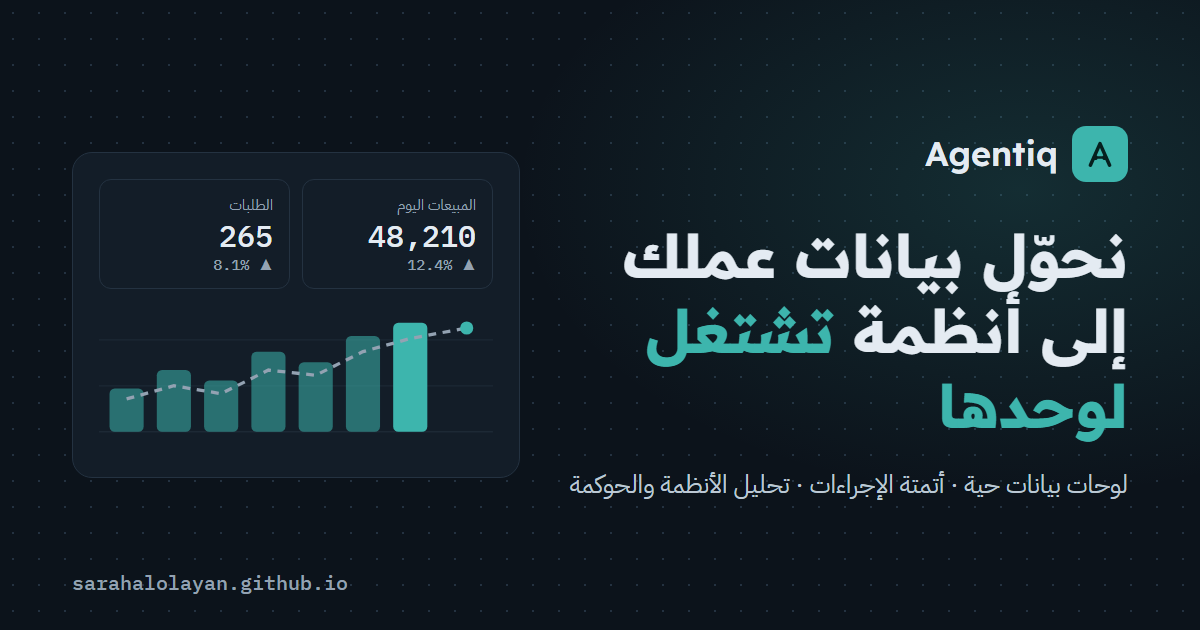
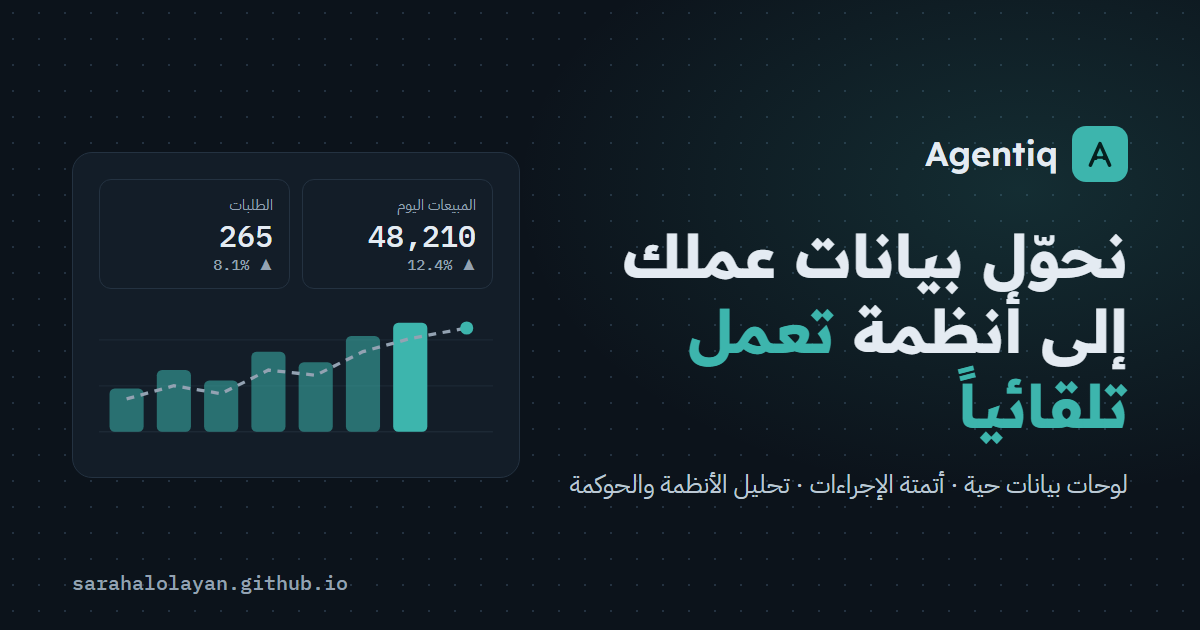
نصوص أوضح وأبسط وأدق

Changed region(s): [[0.7708, 0.573, 0.9558, 0.7238], [0.5242, 0.4825, 0.6783, 0.6032]]

diff --git a/index.html b/index.html
@@ -3,7 +3,7 @@
 <head>
 <meta charset="utf-8">
 <meta name="viewport" content="width=device-width, initial-scale=1, viewport-fit=cover">
-<meta name="description" content="Agentiq: لوحات بيانات حية، أتمتة الإجراءات، وتحليل الأنظمة والحوكمة. نحوّل بيانات عملك وإجراءاته إلى أنظمة تشتغل لوحدها.">
+<meta name="description" content="Agentiq: لوحات بيانات حية، أتمتة الإجراءات، وتحليل الأنظمة والحوكمة. نحوّل بيانات عملك إلى أنظمة تعمل تلقائياً.">
 <meta name="theme-color" content="#0C131B" media="(prefers-color-scheme: dark)">
 <meta name="theme-color" content="#EDF1F4" media="(prefers-color-scheme: light)">
 <link rel="canonical" href="https://sarahalolayan.github.io/">
@@ -13,15 +13,15 @@
 <meta property="og:locale" content="ar_SA">
 <meta property="og:url" content="https://sarahalolayan.github.io/">
 <meta property="og:title" content="Agentiq | لوحات بيانات حية وأتمتة">
-<meta property="og:description" content="Agentiq: لوحات بيانات حية، أتمتة الإجراءات، وتحليل الأنظمة والحوكمة. نحوّل بيانات عملك وإجراءاته إلى أنظمة تشتغل لوحدها.">
+<meta property="og:description" content="Agentiq: لوحات بيانات حية، أتمتة الإجراءات، وتحليل الأنظمة والحوكمة. نحوّل بيانات عملك إلى أنظمة تعمل تلقائياً.">
 <meta property="og:image" content="https://sarahalolayan.github.io/og.png">
 <meta property="og:image:width" content="1200">
 <meta property="og:image:height" content="630">
 <meta name="twitter:card" content="summary_large_image">
 <meta name="twitter:title" content="Agentiq | لوحات بيانات حية وأتمتة">
-<meta name="twitter:description" content="Agentiq: لوحات بيانات حية، أتمتة الإجراءات، وتحليل الأنظمة والحوكمة. نحوّل بيانات عملك وإجراءاته إلى أنظمة تشتغل لوحدها.">
+<meta name="twitter:description" content="Agentiq: لوحات بيانات حية، أتمتة الإجراءات، وتحليل الأنظمة والحوكمة. نحوّل بيانات عملك إلى أنظمة تعمل تلقائياً.">
 <meta name="twitter:image" content="https://sarahalolayan.github.io/og.png">
-<script type="application/ld+json">{"@context": "https://schema.org", "@type": "Organization", "name": "Agentiq", "url": "https://sarahalolayan.github.io/", "logo": "https://sarahalolayan.github.io/og.png", "email": "s.e.alolayan@gmail.com", "telephone": "+966557912466", "areaServed": "SA", "address": {"@type": "PostalAddress", "addressLocality": "الرياض", "addressCountry": "SA"}, "description": "Agentiq: لوحات بيانات حية، أتمتة الإجراءات، وتحليل الأنظمة والحوكمة. نحوّل بيانات عملك وإجراءاته إلى أنظمة تشتغل لوحدها."}</script>
+<script type="application/ld+json">{"@context": "https://schema.org", "@type": "Organization", "name": "Agentiq", "url": "https://sarahalolayan.github.io/", "logo": "https://sarahalolayan.github.io/og.png", "email": "s.e.alolayan@gmail.com", "telephone": "+966557912466", "areaServed": "SA", "address": {"@type": "PostalAddress", "addressLocality": "الرياض", "addressCountry": "SA"}, "description": "Agentiq: لوحات بيانات حية، أتمتة الإجراءات، وتحليل الأنظمة والحوكمة. نحوّل بيانات عملك إلى أنظمة تعمل تلقائياً."}</script>
 <title>Agentiq</title>
 <link rel="preconnect" href="https://fonts.googleapis.com">
 <link rel="preconnect" href="https://fonts.gstatic.com" crossorigin>
@@ -475,15 +475,15 @@ main:focus{outline:none}
   <header class="hero">
     <div class="hero-text">
       <span class="eyebrow">نظم المعلومات · لوحات البيانات · الأتمتة</span>
-      <h1><span class="sr-only">نحوّل بيانات عملك وإجراءاته إلى أنظمة تشتغل لوحدها، تنبّهك وقت الخلل، وتكتب تقاريرها بنفسها.</span><span aria-hidden="true">نحوّل بيانات عملك وإجراءاته إلى أنظمة <em id="rot">تشتغل لوحدها</em><span class="caret"></span></span></h1>
-      <p>Agentiq تبني لوحات بيانات حية وأتمتة للمهام المتكررة، على أساس خبرة في تحليل الأنظمة وحوكمة نظم المعلومات وإدارة المشاريع. منهجيتنا واضحة: نفهم الاحتياج أولاً، ثم نبني نظاماً يستخدمه فريقك فعلاً.</p>
+      <h1><span class="sr-only">نحوّل بيانات عملك إلى أنظمة تعمل تلقائياً، تنبّهك عند الخلل، وتكتب تقاريرها بنفسها.</span><span aria-hidden="true">نحوّل بيانات عملك إلى أنظمة <em id="rot">تعمل تلقائياً</em><span class="caret"></span></span></h1>
+      <p>نبني لوحات بيانات حية ونؤتمت المهام المتكررة، بخبرة في تحليل الأنظمة وحوكمة نظم المعلومات.</p>
       <div class="cta-row">
-        <a class="btn primary" href="#lab">جرّب أعمالنا مباشرة</a>
+        <a class="btn primary" href="#lab">جرّب أعمالنا</a>
         <a class="btn" href="#contact">تواصل معنا</a>
       </div>
     </div>
-    <aside class="opslog" aria-label="مثال حي على سجل عمليات مؤتمت">
-      <div class="opslog-head"><span class="live"><span class="dot"></span>سجل الأتمتة · مثال حي</span><span class="num" id="ops-clock">--:--</span></div>
+    <aside class="opslog" aria-label="مثال توضيحي لسجل عمليات مؤتمت">
+      <div class="opslog-head"><span class="live"><span class="dot"></span>سجل الأتمتة · مثال توضيحي</span><span class="num" id="ops-clock">--:--</span></div>
       <div class="opslog-kpis">
         <div><span>مهام نُفّذت اليوم</span><b id="ops-runs">0</b></div>
         <div><span>دقائق تم توفيرها</span><b id="ops-saved">0</b></div>
@@ -495,17 +495,17 @@ main:focus{outline:none}
   </div>
 
   <div class="facts-strip">
-    <div><b class="num">24/7</b><span>مراقبة وتنبيهات آلية لبيانات عملك</span></div>
-    <div><b class="num" data-count="12" data-prefix="+">+12</b><span>نظاماً ومنصة نربط معها مباشرة</span></div>
-    <div><b class="num" data-count="3">3</b><span>خدمات متكاملة: لوحات بيانات، أتمتة، حوكمة</span></div>
-    <div><b class="en" lang="en">ISTQB</b><span>ضمان جودة وفق معايير اختبار دولية</span></div>
+    <div><b class="num">24/7</b><span>مراقبة وتنبيهات تلقائية</span></div>
+    <div><b class="num" data-count="12" data-prefix="+">+12</b><span>أداة ومنصة نربط معها</span></div>
+    <div><b class="num" data-count="3">3</b><span>خدمات: لوحات بيانات، أتمتة، حوكمة</span></div>
+    <div><b class="en" lang="en">ISTQB</b><span>اختبار وفق المعايير الدولية</span></div>
   </div>
 
   <!-- SERVICES -->
   <section class="block" id="services">
     <div class="block-head">
       <h2>الخدمات</h2>
-      <p>ثلاث خدمات مترابطة: نرتّب الإجراءات، نؤتمت المتكرر منها، ونعرض نتائجها في لوحة واحدة.</p>
+      <p>نرتّب الإجراءات، ونؤتمت المتكرر منها، ونعرض النتائج في لوحة واحدة.</p>
     </div>
     <div class="services">
       <article class="service spot">
@@ -522,8 +522,8 @@ main:focus{outline:none}
           <rect class="chip" x="200" y="74" width="46" height="18" rx="9"/><text class="chipt" x="223" y="86" text-anchor="middle">▲ 12%</text>
         </svg>
         <h3><svg width="24" height="24" viewBox="0 0 24 24" fill="none" stroke="currentColor" stroke-width="1.8" stroke-linecap="round"><path d="M3 17l6-6 4 4 8-8"/><path d="M15 7h6v6"/></svg>لوحات بيانات حية</h3>
-        <p>لوحة تحكم تتحدّث تلقائياً من مصادر بياناتك، وتعرض الأرقام المهمة مع اتجاهها.</p>
-        <ul><li>تحديث تلقائي من مصادرك</li><li>مؤشرات KPI مع نسبة التغيّر والأهداف</li><li>تنبيهات فورية عند أي خلل</li><li>ملخص يومي مكتوب</li></ul>
+        <p>لوحة تتحدّث تلقائياً وتعرض أرقامك المهمة.</p>
+        <ul><li>تحديث تلقائي من مصادرك</li><li>مؤشرات أداء مع نسبة التغيّر</li><li>تنبيهات فورية عند أي خلل</li><li>ملخص يومي مكتوب</li></ul>
         <a class="try" href="#lab" data-tab="store">جرّب لوحة حية ←</a>
       </article>
       <article class="service spot">
@@ -541,8 +541,8 @@ main:focus{outline:none}
           <text x="231" y="100" text-anchor="middle">المُشغّل</text><text x="29" y="18" text-anchor="middle">إرسال</text>
         </svg>
         <h3><svg width="24" height="24" viewBox="0 0 24 24" fill="none" stroke="currentColor" stroke-width="1.8" stroke-linecap="round"><circle cx="6" cy="6" r="2.5"/><circle cx="18" cy="18" r="2.5"/><path d="M8.5 6H14a4 4 0 0 1 4 4v5.5"/></svg>أتمتة الإجراءات</h3>
-        <p>أي مهمة تتكرر يومياً بنفس الخطوات تقدر تشتغل لوحدها: من نسخ البيانات إلى إرسال التقارير.</p>
-        <ul><li>ربط الأنظمة ببعض (متجر، شيت، CRM)</li><li>تقارير مجدولة تصل واتساب أو بريد</li><li>مسارات موافقات بدل الورق والرسائل</li><li>تنبيهات بشروط تحددها أنت</li></ul>
+        <p>المهام المتكررة تُنفَّذ تلقائياً بدل العمل اليدوي.</p>
+        <ul><li>ربط الأنظمة ببعضها</li><li>تقارير مجدولة عبر واتساب أو البريد</li><li>مسارات موافقات إلكترونية</li><li>تنبيهات بشروط تحددها</li></ul>
         <a class="try" href="#lab" data-tab="auto">شغّل محاكي الأتمتة ←</a>
       </article>
       <article class="service spot">
@@ -558,9 +558,9 @@ main:focus{outline:none}
           <circle class="pk" r="4" opacity=".6"><animateMotion dur="4s" begin="2s" repeatCount="indefinite" path="M240 50 H184 H126 H98 V72 H62 H30 V50 H16"/></circle>
         </svg>
         <h3><svg width="24" height="24" viewBox="0 0 24 24" fill="none" stroke="currentColor" stroke-width="1.8" stroke-linecap="round"><rect x="3" y="4" width="7" height="6" rx="1.5"/><rect x="14" y="14" width="7" height="6" rx="1.5"/><path d="M6.5 10v4a3 3 0 0 0 3 3H14"/></svg>تحليل الأنظمة والحوكمة</h3>
-        <p>قبل أي أداة: نفهم الإجراء الحالي، نحدد الفجوات، ونكتب السياسة التي يمشي عليها الفريق.</p>
+        <p>نفهم الإجراء الحالي، ونحدد الفجوات، ونكتب السياسات.</p>
         <ul><li>جمع المتطلبات وتوثيقها</li><li>رسم الإجراءات بـ BPMN</li><li>سياسات الوصول والتعامل مع البيانات</li><li>تقارير امتثال دورية</li></ul>
-        <a class="try" href="#work">شوف أعمالنا ←</a>
+        <a class="try" href="#work">أعمالنا ←</a>
       </article>
     </div>
     <div style="display:grid;gap:10px"><span class="muted" style="font-size:14px">نربط مع:</span><ul class="sr-only"><li>Google Sheets</li><li>Excel</li><li>سلة</li><li>زد</li><li>Foodics</li><li>واتساب</li><li>البريد الإلكتروني</li><li>قواعد بيانات SQL</li><li>Google Drive</li><li>CRM</li><li>نماذج إلكترونية</li><li>أي نظام فيه API</li></ul><div class="marquee" aria-hidden="true"><div class="marquee-track" aria-hidden="true"><span>Google Sheets</span><span>Excel</span><span>سلة</span><span>زد</span><span>Foodics</span><span>واتساب</span><span>البريد الإلكتروني</span><span>قواعد بيانات SQL</span><span>Google Drive</span><span>CRM</span><span>نماذج إلكترونية</span><span>أي نظام فيه API</span><span>Google Sheets</span><span>Excel</span><span>سلة</span><span>زد</span><span>Foodics</span><span>واتساب</span><span>البريد الإلكتروني</span><span>قواعد بيانات SQL</span><span>Google Drive</span><span>CRM</span><span>نماذج إلكترونية</span><span>أي نظام فيه API</span></div></div></div>
@@ -570,13 +570,13 @@ main:focus{outline:none}
   <section class="block" id="process">
     <div class="block-head">
       <h2>طريقة العمل</h2>
-      <p>أربع مراحل واضحة من أول جلسة إلى التشغيل، ولكل مرحلة مخرج تستلمه وتراجعه قبل ما ننتقل للي بعدها.</p>
+      <p>أربع مراحل، ولكل مرحلة مخرج واضح تراجعه قبل الانتقال للتالية.</p>
     </div>
     <ol class="steps">
-      <li class="step"><span class="n">01</span><h3>جلسة فهم</h3><p>نفهم نشاطك، والأرقام اللي تحرّكه، والقرارات اللي تحتاج بيانات عشان تنأخذ.</p><span class="out">المخرج: <b>خريطة الاحتياج والمؤشرات المقترحة</b></span></li>
-      <li class="step"><span class="n">02</span><h3>تصميم الحل</h3><p>نرسم الإجراء الحالي والمقترح، ونحدد مصادر البيانات وقواعد التنبيه وشكل الملخص.</p><span class="out">المخرج: <b>تصميم اللوحة ومسار الأتمتة</b></span></li>
-      <li class="step"><span class="n">03</span><h3>البناء والاختبار</h3><p>نربط مصادرك ونبني اللوحة والمسارات، ونختبر كل مسار على بياناتك الفعلية قبل التشغيل.</p><span class="out">المخرج: <b>نظام مختبر وجاهز للإطلاق</b></span></li>
-      <li class="step"><span class="n">04</span><h3>التشغيل والدعم</h3><p>نطلق النظام مع توثيق وتدريب لفريقك، ونتابع التحسينات بعد الإطلاق.</p><span class="out">المخرج: <b>توثيق وتدريب ودعم مستمر</b></span></li>
+      <li class="step"><span class="n">01</span><h3>جلسة فهم</h3><p>نفهم نشاطك والأرقام المهمة لك.</p><span class="out">المخرج: <b>الاحتياج والمؤشرات المقترحة</b></span></li>
+      <li class="step"><span class="n">02</span><h3>تصميم الحل</h3><p>نحدد مصادر البيانات والتنبيهات وشكل اللوحة.</p><span class="out">المخرج: <b>تصميم اللوحة ومسار الأتمتة</b></span></li>
+      <li class="step"><span class="n">03</span><h3>البناء والاختبار</h3><p>نبني النظام ونختبره على بياناتك قبل التشغيل.</p><span class="out">المخرج: <b>نظام جاهز للإطلاق</b></span></li>
+      <li class="step"><span class="n">04</span><h3>التشغيل والدعم</h3><p>نطلق النظام وندرّب فريقك ونتابع بعد الإطلاق.</p><span class="out">المخرج: <b>توثيق وتدريب ودعم</b></span></li>
     </ol>
   </section>
 
@@ -584,7 +584,7 @@ main:focus{outline:none}
   <section class="block" id="lab">
     <div class="block-head">
       <h2>جرّب بنفسك</h2>
-      <p>ثلاث أدوات تعمل هنا مباشرة: لوحة متجر حية، محاكي لسير عمل مؤتمت، وحاسبة تقدّر الوقت الذي توفره الأتمتة لفريقك.</p>
+      <p>ثلاثة أمثلة تفاعلية تعمل ببيانات تجريبية.</p>
     </div>
     <div class="lab">
       <div class="tabs" role="tablist" aria-label="أدوات تفاعلية">
@@ -619,7 +619,7 @@ main:focus{outline:none}
           <div>
             <h4>الملخص اليومي</h4>
             <p id="summary-text"></p>
-            <div class="sum-foot"><button class="btn sm" id="copy" type="button">نسخ الملخص</button><span id="copy-msg">يُرسل تلقائياً كل ليلة</span></div>
+            <div class="sum-foot"><button class="btn sm" id="copy" type="button">نسخ الملخص</button><span id="copy-msg">يُرسل تلقائياً نهاية كل يوم</span></div>
           </div>
           <ul class="dl" id="facts"></ul>
         </div>
@@ -653,7 +653,7 @@ main:focus{outline:none}
           <div style="display:grid;gap:18px">
             <div class="field"><label for="r-tasks">كم مرة تتكرر المهمة أسبوعياً؟ <output id="o-tasks" for="r-tasks"></output></label><input type="range" id="r-tasks" min="1" max="100" value="20"></div>
             <div class="field"><label for="r-min">كم دقيقة تأخذ كل مرة؟ <output id="o-min" for="r-min"></output></label><input type="range" id="r-min" min="2" max="120" value="15"></div>
-            <div class="field"><label for="r-staff">كم موظف يقوم بها؟ <output id="o-staff" for="r-staff"></output></label><input type="range" id="r-staff" min="1" max="20" value="3"></div>
+            <div class="field"><label for="r-staff">كم موظفاً يقوم بها؟ <output id="o-staff" for="r-staff"></output></label><input type="range" id="r-staff" min="1" max="20" value="3"></div>
             <div class="field"><label for="r-cost">تكلفة ساعة الموظف (ر.س) <output id="o-cost" for="r-cost"></output></label><input type="range" id="r-cost" min="20" max="300" step="5" value="60"></div>
           </div>
           <div class="roi-out" aria-live="polite">
@@ -664,7 +664,7 @@ main:focus{outline:none}
             <div class="cell"><span>توفير سنوي تقديري</span><b id="x-money" style="color:var(--accent);font-size:32px">0</b></div>
             <div class="cmp-row"><span>الوقت الشهري الحالي: <b id="x-now" class="num"></b> ساعة</span><div class="track"><i style="background:var(--ghost);width:100%"></i></div></div>
             <div class="cmp-row"><span>بعد الأتمتة: <b id="x-after" class="num"></b> ساعة</span><div class="track"><i style="background:var(--accent);width:20%"></i></div></div>
-            <p class="roi-note">تقدير مبسّط يفترض أن الأتمتة توفّر 80% من الوقت اليدوي، ويبقى 20% للمراجعة والاستثناءات. الرقم الفعلي يتحدد بعد دراسة الإجراء.</p>
+            <p class="roi-note">تقدير مبسّط يفترض توفير 80% من الوقت اليدوي. الرقم الفعلي يتحدد بعد دراسة الإجراء.</p>
             <a class="btn primary sm" href="#contact" style="justify-self:start">ناقش معنا مهمتك</a>
           </div>
         </div>
@@ -676,7 +676,7 @@ main:focus{outline:none}
   <section class="block" id="work">
     <div class="block-head">
       <h2>أعمالنا</h2>
-      <p>مشاريع منشورة تقدر تفتحها وتجربها، وأعمال من خبرة الفريق في تحليل الأنظمة والحوكمة.</p>
+      <p>مشاريع منشورة يمكنك تجربتها، وأمثلة من خبرتنا السابقة.</p>
     </div>
     <div class="filters" id="work-filters" role="group" aria-label="تصفية الأعمال">
       <button class="chip" type="button" data-f="all" aria-pressed="true">الكل</button>
@@ -689,48 +689,48 @@ main:focus{outline:none}
         <div style="display:grid;gap:12px">
           <span class="cat">لوحة بيانات · مشروع منشور</span>
           <h3>نبض النادي</h3>
-          <p>لوحة تحكم حية لنادي رياضي مبنية على 973 جلسة تمرين حقيقية. فيها أهداف يومية، ومناطق شدة النبض، وفلاتر تطبّق على اللوحة كاملة، وتنبيهات بزر متابعة، وملخص يومي يُحفظ تلقائياً.</p>
-          <div class="tags"><span>تحديث تلقائي</span><span>6 مؤشرات KPI</span><span>تنبيهات</span><span>ملخص يومي</span><span>رفع CSV</span></div>
+          <p>لوحة حية لنادي رياضي مبنية على 973 جلسة تمرين، مع أهداف يومية وتنبيهات وملخص يومي.</p>
+          <div class="tags"><span>تحديث تلقائي</span><span>6 مؤشرات أداء</span><span>تنبيهات</span><span>ملخص يومي</span><span>رفع CSV</span></div>
           <div class="links-row"><a href="https://sarahalolayan.github.io/nabd-alnadi/" target="_blank" rel="noopener">افتح اللوحة ↗</a></div>
         </div>
         <div class="mini" aria-hidden="true">
           <div class="mini-kpis"><div><span>الجلسات</span><b id="m-n">59</b></div><div><span>السعرات</span><b id="m-c">53,259</b></div><div><span>الهدف</span><b>128</b></div></div>
           <svg id="m-chart" viewBox="0 0 300 60" preserveAspectRatio="none"></svg>
-          <span class="kpi-sub">معاينة مصغّرة تتحدّث</span>
+          <span class="kpi-sub">معاينة مصغّرة</span>
         </div>
       </article>
       <article class="card spot" data-cat="dash">
         <span class="cat">لوحة بيانات · عرض حي</span>
         <h3>لوحة عمليات متجر إلكتروني</h3>
-        <p>مبيعات بالساعة مقابل أمس، أربع مؤشرات مع نسب التغيّر، تنبيهات مخزون وتحويل، وتوقع لمبيعات نهاية اليوم.</p>
+        <p>مبيعات بالساعة، ومؤشرات مع نسب التغيّر، وتنبيهات، وتوقع لنهاية اليوم.</p>
         <div class="tags"><span>مبيعات</span><span>معدل التحويل</span><span>توقع</span></div>
-        <div class="links-row"><a href="#lab" data-tab="store">جرّبها هنا ←</a></div>
+        <div class="links-row"><a href="#lab" data-tab="store">جرّبها ←</a></div>
       </article>
       <article class="card spot" data-cat="auto">
         <span class="cat">أتمتة · محاكي تفاعلي</span>
-        <h3>ثلاث مسارات عمل مؤتمتة</h3>
-        <p>طلب متجر يحدّث الشيت وينبّه المدير، تقرير يومي يُكتب ويُرسل لوحده، وطلب إجازة يمر بالموافقة ويُبلغ الموظف.</p>
+        <h3>ثلاثة مسارات عمل مؤتمتة</h3>
+        <p>طلب متجر، وتقرير يومي، وطلب إجازة بموافقة المدير.</p>
         <div class="tags"><span>Webhook</span><span>شروط</span><span>تنبيهات</span><span>موافقات</span></div>
-        <div class="links-row"><a href="#lab" data-tab="auto">شغّلها هنا ←</a></div>
+        <div class="links-row"><a href="#lab" data-tab="auto">شغّلها ←</a></div>
       </article>
       <article class="card spot" data-cat="gov">
-        <span class="cat">حوكمة نظم المعلومات · مجموعة المسواك</span>
+        <span class="cat">حوكمة نظم المعلومات · خبرة سابقة</span>
         <h3>سياسات نظم المعلومات والامتثال</h3>
-        <p>كتابة وتحديث سياسات الوصول للأنظمة والتعامل مع البيانات وضوابط الاستخدام، مع متابعة التزام الإدارات وتقارير امتثال دورية بالإجراءات التصحيحية.</p>
+        <p>سياسات الوصول للأنظمة والتعامل مع البيانات، مع متابعة الالتزام وتقارير امتثال دورية.</p>
         <div class="tags"><span>سياسات</span><span>امتثال</span><span>تقارير</span></div>
       </article>
       <article class="card spot" data-cat="gov">
-        <span class="cat">تحليل أنظمة · EinAI</span>
+        <span class="cat">تحليل الأنظمة · خبرة سابقة</span>
         <h3>متطلبات وخرائط إجراءات BPMN</h3>
-        <p>ورش عمل لجمع المتطلبات الوظيفية وغير الوظيفية، ورسم الإجراءات الحالية والمقترحة لكشف الفجوات ونقاط التكامل، ومتابعة التسليم في Jira.</p>
+        <p>جمع المتطلبات ورسم الإجراءات لكشف الفجوات، ومتابعة التسليم في Jira.</p>
         <div class="tags"><span>BPMN</span><span>متطلبات</span><span>Jira</span></div>
       </article>
       <article class="card spot" data-cat="auto gov">
-        <span class="cat">أتمتة · من خبرة الفريق</span>
-        <h3>تقارير الامتثال والتقدم</h3>
-        <p>تقارير دورية كانت تُجمع يدوياً من الاجتماعات والمتابعات. اليوم نبنيها كمسار مؤتمت يجمع البيانات ويكتب الملخص ويرسله في موعده.</p>
+        <span class="cat">أتمتة · مثال تطبيقي</span>
+        <h3>تقارير دورية مؤتمتة</h3>
+        <p>تقرير يُجمع ويُكتب ويُرسل في موعده بدل إعداده يدوياً.</p>
         <div class="tags"><span>تقارير مجدولة</span><span>ملخصات</span></div>
-        <div class="links-row"><a href="#lab" data-tab="auto" data-scenario="daily">شوف المثال ←</a></div>
+        <div class="links-row"><a href="#lab" data-tab="auto" data-scenario="daily">شاهد المثال ←</a></div>
       </article>
     </div>
   </section>
@@ -739,20 +739,20 @@ main:focus{outline:none}
   <section class="block" id="faq">
     <div class="block-head"><h2>أسئلة شائعة</h2></div>
     <div class="faqs">
-      <details class="faq"><summary>هل أحتاج فريق تقني عندي؟</summary><p>لا. نتولى الربط والبناء والاختبار، وفريقك يستخدم اللوحة ويستقبل التنبيهات والتقارير فقط.</p></details>
-      <details class="faq"><summary>من وين تجي البيانات؟</summary><p>من الأنظمة اللي تستخدمها اليوم: ملفات Excel وGoogle Sheets، متجرك في سلة أو زد، نظام نقاط البيع، قاعدة بيانات، أو أي نظام فيه API.</p></details>
-      <details class="faq"><summary>كيف تتعاملون مع أمان البيانات؟</summary><p>نحدد صلاحيات الوصول لكل مستخدم، ونطبق سياسات واضحة للتعامل مع البيانات من خبرتنا في حوكمة نظم المعلومات. وتبقى البيانات والحسابات ملكك أنت.</p></details>
-      <details class="faq"><summary>كم يستغرق المشروع؟</summary><p>يعتمد على عدد مصادر البيانات وتعقيد الإجراء. نحدد المدة والمخرجات بدقة بعد جلسة الفهم، قبل ما نبدأ أي عمل.</p></details>
-      <details class="faq"><summary>وش يصير بعد التسليم؟</summary><p>نسلّمك توثيقاً كاملاً وندرّب فريقك، ونبقى متاحين للتعديلات وإضافة مؤشرات أو مسارات جديدة مع نمو عملك.</p></details>
-      <details class="faq"><summary>أقدر أبدأ بشيء صغير؟</summary><p>أكيد. ننصح بالبدء بلوحة واحدة أو أتمتة إجراء واحد يوفّر وقتاً واضحاً، وبعدها نتوسع خطوة خطوة.</p></details>
+      <details class="faq"><summary>هل أحتاج فريقاً تقنياً؟</summary><p>لا. نتولى البناء والربط، وفريقك يستخدم النتيجة فقط.</p></details>
+      <details class="faq"><summary>من أين تأتي البيانات؟</summary><p>من الأنظمة التي تستخدمها حالياً، مثل Excel أو متجرك الإلكتروني أو قاعدة بياناتك.</p></details>
+      <details class="faq"><summary>كيف تحمون البيانات؟</summary><p>نحدد صلاحيات الوصول لكل مستخدم، وتبقى البيانات ملكك.</p></details>
+      <details class="faq"><summary>كم يستغرق المشروع؟</summary><p>حسب حجمه. نحدد المدة بعد جلسة الفهم وقبل بدء العمل.</p></details>
+      <details class="faq"><summary>ماذا بعد التسليم؟</summary><p>نسلّم التوثيق وندرّب فريقك، ونبقى متاحين للتعديلات.</p></details>
+      <details class="faq"><summary>هل يمكن البدء بمشروع صغير؟</summary><p>نعم. يمكنك البدء بلوحة واحدة أو إجراء واحد، ثم التوسع.</p></details>
     </div>
   </section>
 
   <!-- CONTACT -->
   <section class="contact" id="contact">
     <div>
-      <h2>عندك مهمة تتكرر كل يوم، أو أرقام تبي تشوفها بوضوح؟</h2>
-      <p>عبّ التفاصيل باختصار، وتنفتح رسالتك جاهزة في واتساب أو البريد. نرجع لك بتصور أولي للحل وخطوات تنفيذه.</p>
+      <h2>لنبدأ مشروعك</h2>
+      <p>اكتب التفاصيل باختصار، وستُفتح رسالتك جاهزة في واتساب أو البريد.</p>
       <form class="brief" id="brief" novalidate>
         <div class="brief-row">
           <div class="bf"><label for="b-name">الاسم أو الجهة</label><input id="b-name" autocomplete="organization" placeholder="مثال: متجر نخلة"></div>
@@ -762,12 +762,12 @@ main:focus{outline:none}
         <fieldset class="bf"><legend>الخدمة المطلوبة</legend>
           <div class="svc-pick" id="b-svc"><button type="button" aria-pressed="true">لوحة بيانات</button><button type="button" aria-pressed="false">أتمتة</button><button type="button" aria-pressed="false">تحليل وحوكمة</button></div>
         </fieldset>
-        <div class="bf"><label for="b-msg">وش المهمة أو الأرقام اللي تبي تتابعها؟</label><textarea id="b-msg" rows="3" aria-required="true" aria-describedby="b-note" placeholder="مثال: نجمع مبيعات الفروع يدوياً كل يوم من ثلاث ملفات Excel"></textarea></div>
+        <div class="bf"><label for="b-msg">ما المهمة أو الأرقام التي تريد متابعتها؟</label><textarea id="b-msg" rows="3" aria-required="true" aria-describedby="b-note" placeholder="مثال: نجمع مبيعات الفروع يدوياً كل يوم"></textarea></div>
         <div class="cta-row">
           <a class="btn wa" id="b-wa" href="https://wa.me/966557912466" target="_blank" rel="noopener">أرسل عبر واتساب</a>
           <a class="btn ghost-d" id="b-mail" href="mailto:s.e.alolayan@gmail.com">أرسل بالبريد</a>
         </div>
-        <p class="b-note" id="b-note" role="status">تقدر تعدّل الرسالة قبل الإرسال.</p>
+        <p class="b-note" id="b-note" role="status">يمكنك تعديل الرسالة قبل إرسالها.</p>
       </form>
     </div>
     <div class="contact-list">
@@ -776,7 +776,7 @@ main:focus{outline:none}
       <div class="ci"><div><span>لينكدإن</span><br><a href="https://sa.linkedin.com/in/sarah-alolayan-991368183" target="_blank" rel="noopener">sarah-alolayan ↗</a></div></div>
     </div>
   </section>
-<a class="fab" id="fab" href="https://wa.me/966557912466" target="_blank" rel="noopener" aria-label="تواصل معنا عبر واتساب"><svg width="20" height="20" viewBox="0 0 24 24" fill="none" stroke="currentColor" stroke-width="2" stroke-linecap="round" stroke-linejoin="round"><path d="M21 11.5a8.4 8.4 0 0 1-12.4 7.4L3 20.5l1.7-5.3A8.4 8.4 0 1 1 21 11.5z"/></svg><span>تحدّث معنا</span></a>
+<a class="fab" id="fab" href="https://wa.me/966557912466" target="_blank" rel="noopener" aria-label="تواصل معنا عبر واتساب"><svg width="20" height="20" viewBox="0 0 24 24" fill="none" stroke="currentColor" stroke-width="2" stroke-linecap="round" stroke-linejoin="round"><path d="M21 11.5a8.4 8.4 0 0 1-12.4 7.4L3 20.5l1.7-5.3A8.4 8.4 0 1 1 21 11.5z"/></svg><span>واتساب</span></a>
 </main>
 <footer class="wrap"><span>© <span class="num" id="year">2026</span> <span class="en" lang="en">Agentiq</span></span><span>الرياض، المملكة العربية السعودية</span></footer>
 
@@ -1001,7 +1001,7 @@ main:focus{outline:none}
     const S=SCN[scn];
     $('#cmp-manual-t').textContent=S.manualTxt; $('#cmp-auto-t').textContent='ثوانٍ';
   }
-  function pickScenario(s){ if(busy) return; scn=s; $$('#scenarios .chip').forEach(c=>c.setAttribute('aria-pressed',c.dataset.s===s)); drawFlow(); con.innerHTML=''; logLine('<span class="ar">اضغط «شغّل السير» لتشاهد الخطوات تنفَّذ.</span>'); }
+  function pickScenario(s){ if(busy) return; scn=s; $$('#scenarios .chip').forEach(c=>c.setAttribute('aria-pressed',c.dataset.s===s)); drawFlow(); con.innerHTML=''; logLine('<span class="ar">اضغط «شغّل السير» لمشاهدة الخطوات.</span>'); }
   $('#scenarios').addEventListener('click',e=>{ const c=e.target.closest('.chip'); if(c) pickScenario(c.dataset.s); });
   function logLine(html){ const d=document.createElement('div'); d.innerHTML=html; con.appendChild(d); con.scrollTop=con.scrollHeight; }
   const ts=()=>{ const d=new Date(); return `${pad(d.getHours())}:${pad(d.getMinutes())}:${pad(d.getSeconds())}`; };
@@ -1069,7 +1069,7 @@ main:focus{outline:none}
 
   // ================= MOTION & GRAPHICS =================
   // rotating phrase in the headline
-  const PHRASES=['تشتغل لوحدها','تنبّهك وقت الخلل','تكتب تقاريرها بنفسها','توفّر وقت فريقك'];
+  const PHRASES=['تعمل تلقائياً','تنبّهك عند الخلل','تكتب تقاريرها بنفسها','توفّر وقت فريقك'];
   let pi=0; const rot=$('#rot');
   setInterval(()=>{ if(still) return; rot.classList.add('out'); setTimeout(()=>{ pi=(pi+1)%PHRASES.length; rot.textContent=PHRASES[pi]; rot.classList.remove('out'); },350); },2800);
 
@@ -1151,7 +1151,7 @@ main:focus{outline:none}
   function briefText(){
     const svc=$$('#b-svc button').filter(b=>b.getAttribute('aria-pressed')==='true').map(b=>b.textContent).join('، ')||'غير محدد';
     const name=$('#b-name').value.trim();
-    return `السلام عليكم، أبي أبدأ مشروع مع Agentiq.\n\nالاسم أو الجهة: ${name||'—'}\nنوع النشاط: ${$('#b-type').value}\nالخدمة: ${svc}\n\nالتفاصيل:\n${$('#b-msg').value.trim()}`;
+    return `السلام عليكم، أرغب في بدء مشروع مع Agentiq.\n\nالاسم أو الجهة: ${name||'—'}\nنوع النشاط: ${$('#b-type').value}\nالخدمة: ${svc}\n\nالتفاصيل:\n${$('#b-msg').value.trim()}`;
   }
   function syncBrief(){
     const t=briefText();
@@ -1161,9 +1161,9 @@ main:focus{outline:none}
   ['#b-name','#b-type','#b-msg'].forEach(id=>$(id).addEventListener('input',syncBrief));
   ['#b-wa','#b-mail'].forEach(id=>$(id).addEventListener('click',e=>{
     const note=$('#b-note');
-    if(!$('#b-msg').value.trim()){ e.preventDefault(); note.textContent='اكتب وصفاً مختصراً للمهمة أولاً، عشان نفهم احتياجك.'; note.classList.add('err'); $('#b-msg').setAttribute('aria-invalid','true'); $('#b-msg').focus(); return; }
+    if(!$('#b-msg').value.trim()){ e.preventDefault(); note.textContent='اكتب وصفاً مختصراً للمهمة أولاً.'; note.classList.add('err'); $('#b-msg').setAttribute('aria-invalid','true'); $('#b-msg').focus(); return; }
     $('#b-msg').removeAttribute('aria-invalid');
-    note.classList.remove('err'); note.textContent='انفتحت رسالتك. إذا ما انفتحت، تواصل معنا على الرقم أو البريد بالجنب.';
+    note.classList.remove('err'); note.textContent='فُتحت رسالتك. إن لم تُفتح، تواصل معنا عبر الرقم أو البريد.';
   }));
   $('#brief').addEventListener('submit',e=>e.preventDefault());
   syncBrief();
